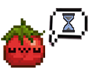
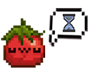
Count pomodoros done today

Changed region(s): [[0.6, 0.1667, 0.78, 0.4722]]

diff --git a/SitePass/app/background.js b/SitePass/app/background.js
@@ -1,6 +1,6 @@
 "use strict";
 var Consts = {
-    xClientHeader: "5a8238ab-1819-4f7f-a750-f23264719a2d-Habitica SiteKeeper",
+    xClientHeader: "5a8238ab-1819-4f7f-a750-f23264719a2d-HabiticaPomodoroSiteKeeper",
     serverUrl: 'https://habitica.com/api/v3/',
     serverPathUser : 'user/',
     serverPathTask: 'tasks/sitepass',
@@ -27,6 +27,7 @@ var Consts = {
     urlFilter: { urls: ["<all_urls>"], types: ["main_frame"] },
     opt_extraInfoSpec: ["blocking"],
     userDataKey: "USER_DATA",
+    PomodorosTodayDataKey:"PomodorosToday",
     NotificationId : "sitepass_notification"
 };
 
@@ -34,6 +35,7 @@ var Vars = {
     EditingSettings:false,
     RewardTask: Consts.RewardTemplate,
     PomodoroTaskId:null,
+    PomodorosToday:{value:0,date:0},
     Monies: 0,
     Exp: 0,
     Hp: 0,
@@ -145,6 +147,13 @@ chrome.storage.sync.get(Consts.userDataKey, function (result) {
     }
 });
 
+//Set Pomodoros Today from storage
+chrome.storage.sync.get(Consts.PomodorosTodayDataKey, function (result) { 
+    if (result[Consts.PomodorosTodayDataKey]) {
+        Vars.PomodorosToday = result[Consts.PomodorosTodayDataKey];
+    }
+});
+
 //Habitica Api general call
 function callAPI(method, route, postData) {
 	var xhr = new XMLHttpRequest();
@@ -153,7 +162,7 @@ function callAPI(method, route, postData) {
 	xhr.setRequestHeader('Content-Type', 'application/json');
 	xhr.setRequestHeader('x-api-user', Vars.UserData.Credentials.uid);
 	xhr.setRequestHeader('x-api-key', Vars.UserData.Credentials.apiToken);
-	if (typeof postData !== 'undefined')  xhr.send(postData);
+	if (typeof postData !== 'undefined')  xhr.sendend(postData);
 	else                                  xhr.send();
 	return (xhr.responseText);
 }
@@ -197,7 +206,7 @@ function getData(silent, credentials, serverPath) {
     return JSON.parse(xhr.responseText);
 }
 
-function FetchHabiticaData() {
+function FetchHabiticaData(skipTasks) {
     var credentials = Vars.UserData.Credentials;
     var userObj = getData(false, credentials, Consts.serverPathUser);
     if (userObj == null) return;
@@ -206,32 +215,31 @@ function FetchHabiticaData() {
         Vars.Exp = userObj.data["stats"]["exp"];
         Vars.Hp = userObj.data["stats"]["hp"];
     }
-
-    var tasksObj;
-
-    //get pomodoro task id
-    tasksObj = getData(true, credentials, Consts.serverPathPomodoroHabit);
-    if (tasksObj && tasksObj.data["alias"] == "sitepassPomodoro") {
-        Vars.PomodoroTaskId = tasksObj.data.id;
-    }else{
-        var result = CreatePomodoroHabit();
-        if(result.error){
-            notify("ERROR",result.error);
+    if(!skipTasks){
+        var tasksObj;
+        //get pomodoro task id
+        tasksObj = getData(true, credentials, Consts.serverPathPomodoroHabit);
+        if (tasksObj && tasksObj.data["alias"] == "sitepassPomodoro") {
+            Vars.PomodoroTaskId = tasksObj.data.id;
         }else{
-            Vars.PomodoroTaskId = result;
+            var result = CreatePomodoroHabit();
+            if(result.error){
+                notify("ERROR",result.error);
+            }else{
+                Vars.PomodoroTaskId = result;
+            }
+            
         }
-        
-    }
-    
 
-    //Reward task update/create
-    tasksObj = getData(true, credentials, Consts.serverPathTask);
-    if (tasksObj && tasksObj.data["alias"] == "sitepass") {
-        Vars.RewardTask = tasksObj.data;
-        UpdateRewardTask(0, false);
-        return;
+        //Reward task update/create
+        tasksObj = getData(true, credentials, Consts.serverPathTask);
+        if (tasksObj && tasksObj.data["alias"] == "sitepass") {
+            Vars.RewardTask = tasksObj.data;
+            UpdateRewardTask(0, false);
+            return;
+        }
+        UpdateRewardTask(0, true);
     }
-    UpdateRewardTask(0, true);
 }
 
 function UpdateRewardTask(cost, create) {
@@ -316,21 +324,31 @@ function startTimer(duration) {
 //Runs When Pomodoro Timer Ends
 function timerEnds(){
     stopTimer();
-    FetchHabiticaData();
     var msg ="Pomodoro ended";
     //If Pomodoro Habit + is enabled
     if(Vars.UserData.PomoHabitPlus){
+        FetchHabiticaData(true);
         var result = ScoreHabit(Vars.PomodoroTaskId,'up');
         if(!result.error){
             var deltaGold = (result.gp-Vars.Monies).toFixed(2);
             var deltaExp = (result.exp-Vars.Exp).toFixed(2);
             msg = "You Earned Gold: +" +deltaGold +"\n"+"You Earned Exp: +"+deltaExp;
-            FetchHabiticaData();
+            FetchHabiticaData(true);
         }else{
             msg = "ERROR: "+result.error;
         }
+
     }
-    console.log("Time's Up");
+
+    //update Pomodoros today
+    Vars.PomodorosToday.value ++;
+    var Pomodoros =  {};
+    Pomodoros[Consts.PomodorosTodayDataKey] = Vars.PomodorosToday;
+    chrome.storage.sync.set(Pomodoros, function() {
+        console.log('PomodorosToday is set to ' + JSON.stringify(Pomodoros));
+    });
+
+    //notify
     notify("Time's Up", msg);
 }
 

diff --git a/SitePass/app/popup.html b/SitePass/app/popup.html
@@ -10,7 +10,7 @@
     <a id="BlockLink" href="#">Block Site!</a>
     <!-- Pomodoro Timer -->
     <div id="pomodoro">
-        <span id="PomoStart" class="tomato"></span><span id="Time">00:00</span> 
+        <span id="PomoStart" data-pomodoros="0" class="tomato"></span><span id="Time">00:00</span> 
     </div>
     <!-- Blocked Sites -->
     <p><b>Blocked Sites:</b></p>
@@ -48,7 +48,7 @@
 
             <label><b>Pomodoro Combo Set Habit </b></label><br>
             <label><input type="checkbox" id="PomoSetHabitPlus"> <span class="plus_minus_icon">+</span> habit for pomodoro set complete</label><br>
-            <label><b>Pomodoros in Set  </b><input style="width:50px;margin-top: 5px;" id="PomoSetNum" type="number"></label><br>
+            <label><b>Pomodoros in Set  </b><input style="width:50px;margin-top: 5px;" id="PomoSetNum" type="number" min="0" max="6"></label><br>
             <span class="setting-note">Choose 0 for infinite loop<br>(Break Extentions won't fail you)</span>
             <hr>
             

diff --git a/SitePass/app/popup.js b/SitePass/app/popup.js
@@ -148,7 +148,14 @@ function CredentialFields() {
     $("#PomoDuration").val(Vars.UserData.PomoDurationMins);
     $("#PomoHabitPlus").prop('checked', Vars.UserData.PomoHabitPlus);
     $("#PomoHabitMinus").prop('checked', Vars.UserData.PomoHabitMinus);
-
+    
+    //Update Pomodoros Today
+    today = new Date().setHours(0,0,0,0);
+    if(Vars.PomodorosToday.date!= today){
+        Vars.PomodorosToday.value=0;
+        Vars.PomodorosToday.date = today;
+    } 
+    $("#PomoStart").attr("data-pomodoros",Vars.PomodorosToday.value);
 
     $("#UID").on("keyup", function () { updateCredentials(); });
     $("#APIToken").on("keyup", function () { updateCredentials(); });
@@ -247,6 +254,7 @@ function updateTimerDisplay(){
             $('#pomodoro').css("background-color", "#2995CD")
             $('#pomodoro').css("color", "#36205D");
             $("#SiteTable tbody").toggleClass('blocked',false);
+            $("#PomoStart").attr("data-pomodoros",Vars.PomodorosToday.value);
         }
 }
 

diff --git a/SitePass/app/popup.css b/SitePass/app/popup.css
@@ -134,6 +134,16 @@ a{
 .tomatoWait{
     background-image: url(img/pomodoroWait.png);
 }
+.tomatoWait:not(:hover):after {
+    content: attr(data-pomodoros);
+    display: inline-block;
+    position: relative;
+    font-family: pixeled;
+    top: -30px;
+    left: 20px;
+    font-size: 11px;
+}
+
 .tomatoWait:hover{
     background-image: url(img/pomodoroStart.png);
 }
